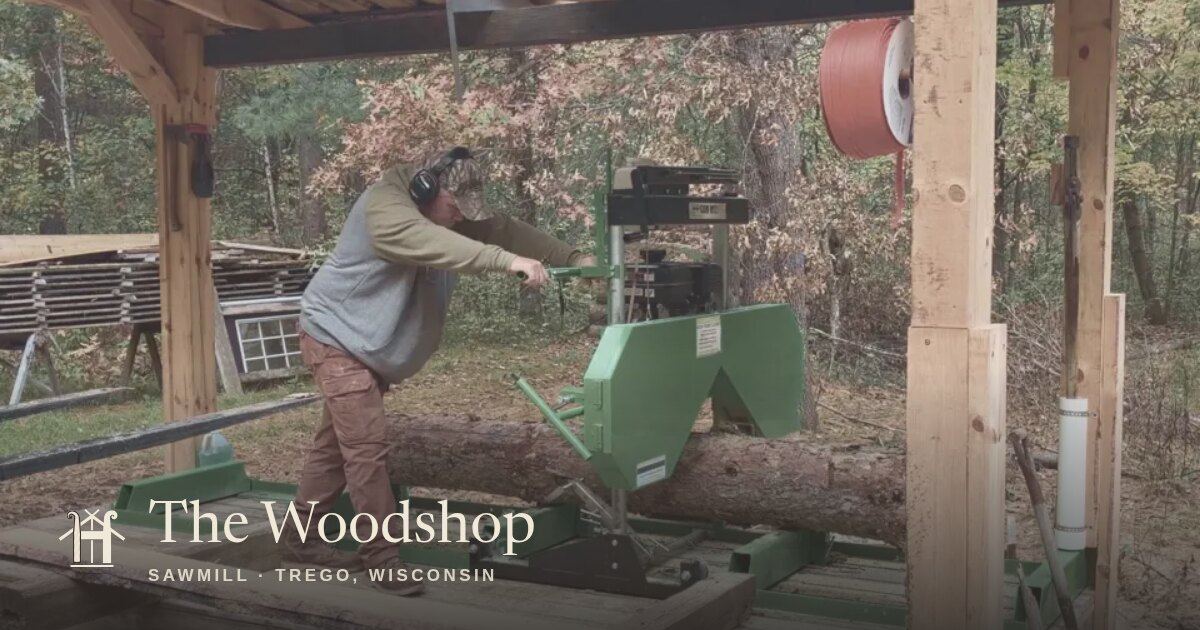
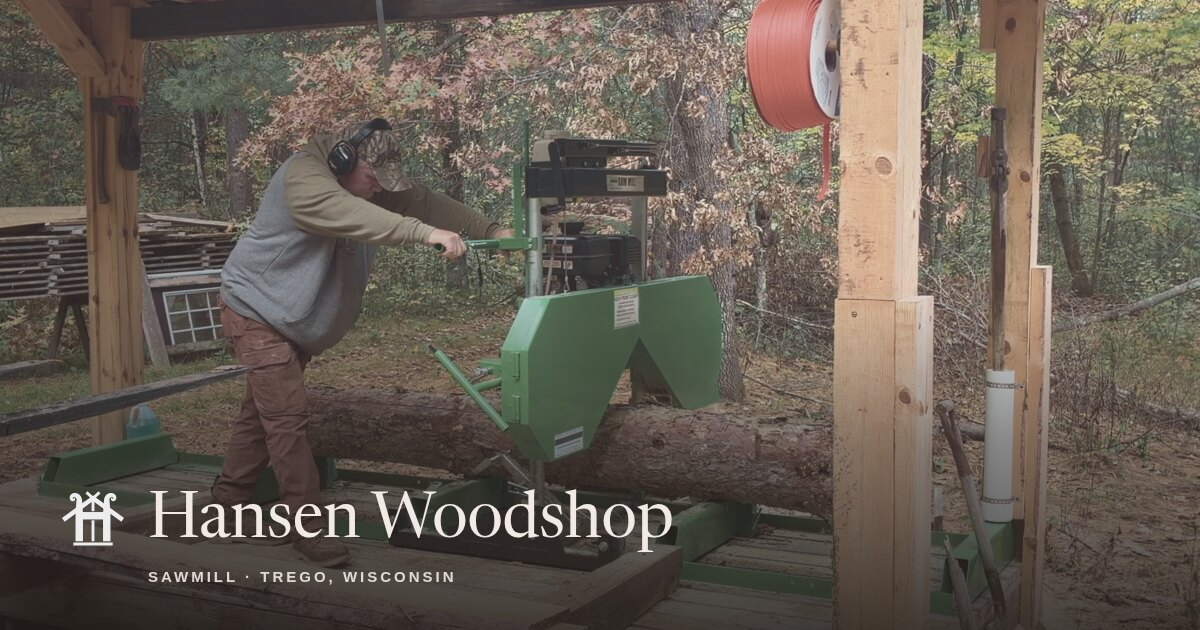
Link preview: Hansen Woodshop lockup
Claude-Session: https://claude.ai/code/session_01SPL6Jrkx9j2D2c3T3A89Yx

diff --git a/index.html b/index.html
@@ -12,7 +12,7 @@
 <!-- Link preview (tools: scratch render of the sawing still + lockup). Switch to https:// once the Pages cert is issued. -->
 <meta property="og:type" content="website">
 <meta property="og:url" content="http://woodshop.househansen.com/">
-<meta property="og:image" content="http://woodshop.househansen.com/assets/og.jpg">
+<meta property="og:image" content="http://woodshop.househansen.com/assets/og.jpg?v=2">
 <meta property="og:image:width" content="1200">
 <meta property="og:image:height" content="630">
 <meta property="og:image:alt" content="The sawyer pushing the sawhead through a Norway pine log under the saw shed">

diff --git a/src.html b/src.html
@@ -12,7 +12,7 @@
 <!-- Link preview (tools: scratch render of the sawing still + lockup). Switch to https:// once the Pages cert is issued. -->
 <meta property="og:type" content="website">
 <meta property="og:url" content="http://woodshop.househansen.com/">
-<meta property="og:image" content="http://woodshop.househansen.com/assets/og.jpg">
+<meta property="og:image" content="http://woodshop.househansen.com/assets/og.jpg?v=2">
 <meta property="og:image:width" content="1200">
 <meta property="og:image:height" content="630">
 <meta property="og:image:alt" content="The sawyer pushing the sawhead through a Norway pine log under the saw shed">

diff --git a/STATUS.md b/STATUS.md
@@ -3,7 +3,7 @@ Last session: 2026-10-23. Read this first next time.
 
 ## Where it stands
 - **Site:** one static page (`src.html` → `python3 build.py` → `index.html`) on GitHub Pages, repo `Lettuceaswell/woodshop-househansen`, branch `main`. Follows the House Hansen system in `../modern-viking-brand` (tokens, Quiet weighting, imprint rule, mark size rule, ink-sketch illustrations, wool grain). Rules are summarized in `README.md`.
-- **Name and imprint:** the site is "Hansen Woodshop" (renamed from "The Woodshop" by Levi, 2026-10-23). "House Hansen" appears only in the footer imprint. The link-preview image `assets/og.jpg` still shows the old "The Woodshop" lockup.
+- **Name and imprint:** the site is "Hansen Woodshop" (renamed from "The Woodshop" by Levi, 2026-10-23). "House Hansen" appears only in the footer imprint.
 - **Live at the domain over HTTP** (CNAME in place, DNS verified 2026-10-23). GitHub had not issued the HTTPS certificate yet that evening. Once it exists, run `gh api -X PUT repos/Lettuceaswell/woodshop-househansen/pages -F https_enforced=true`. If it is still missing after a day, remove and re-add the custom domain in Pages settings to restart issuance.
 - **Motion pass (2026-10-23):** ink tracings over every real photo, scroll parallax, the end-grain log back as a pinned "how we open a log" diagram, the knot-rule dividers, the live-edge Forge band, and more. See README, "Motion and ornament".
 - **noindex is on** and the **order form is a placeholder** (confirms on screen, sends nothing). Don't share the link publicly until the form goes somewhere real. Then remove the `robots` meta tag.
